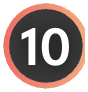
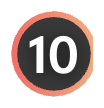
Update drill diagram builder and shot marker asset
Replit-Commit-Author: Agent

diff --git a/client/src/components/drill-diagram-builder.tsx b/client/src/components/drill-diagram-builder.tsx
@@ -1,6 +1,5 @@
 import { useRef, useState } from "react";
 import type { KeyboardEvent, PointerEvent } from "react";
-import { Minus, Plus, RotateCcw, RotateCw, Trash2 } from "lucide-react";
 import courtAsset from "@/assets/drill-diagram/court.png";
 import shotAsset from "@/assets/drill-diagram/shot-marker.png";
 import startAsset from "@/assets/drill-diagram/start-marker.png";
@@ -65,11 +64,13 @@ function DiagramMark({
   element,
   selected,
   onPointerDown,
+  onHandlePointerDown,
   onKeyDown,
 }: {
   element: DrillDiagramElement;
   selected: boolean;
   onPointerDown: (event: PointerEvent<SVGGElement>) => void;
+  onHandlePointerDown: (mode: "resize" | "rotate", event: PointerEvent<SVGCircleElement>) => void;
   onKeyDown: (event: KeyboardEvent<SVGGElement>) => void;
 }) {
   const x = element.x * 3.78;
@@ -86,6 +87,14 @@ function DiagramMark({
   const lengthScale = (element.length ?? 18) / 18;
   const bendScale = 1 + (element.bend ?? 0) / 45;
   const iconScale = element.scale ?? 1;
+  const boxWidth = dimensions.width * iconScale * (element.type === "arrow" ? bendScale : 1);
+  const boxHeight = dimensions.height * iconScale * (element.type === "arrow" ? lengthScale : 1);
+  const corners = [
+    [-boxWidth / 2, -boxHeight / 2],
+    [boxWidth / 2, -boxHeight / 2],
+    [-boxWidth / 2, boxHeight / 2],
+    [boxWidth / 2, boxHeight / 2],
+  ];
   return (
     <g
       transform={`translate(${x} ${y}) rotate(${angle}) scale(${iconScale})`}
@@ -111,13 +120,52 @@ function DiagramMark({
           <text x="0" y="3.8" textAnchor="middle" fontSize="10" fontWeight="800" fill="#fff" className="select-none" pointerEvents="none">{element.shots}</text>
         </>
       )}
+      {selected && (
+        <g transform={element.type === "arrow" ? `scale(${bendScale} ${lengthScale})` : undefined} pointerEvents="none">
+          <rect x={-dimensions.width / 2} y={-dimensions.height / 2} width={dimensions.width} height={dimensions.height} fill="none" stroke="#7c3aed" strokeWidth="1.5" />
+          {corners.map(([cx, cy], index) => (
+            <circle
+              key={index}
+              cx={cx}
+              cy={cy}
+              r="5.5"
+              fill="#fff"
+              stroke="#a1a1aa"
+              strokeWidth="1.5"
+              pointerEvents="all"
+              className="cursor-nwse-resize"
+              onPointerDown={(event) => onHandlePointerDown("resize", event)}
+            />
+          ))}
+          <line x1="0" y1={-boxHeight / 2} x2="0" y2={-boxHeight / 2 - 15} stroke="#a1a1aa" strokeWidth="1.5" />
+          <circle
+            cx="0"
+            cy={-boxHeight / 2 - 19}
+            r="6"
+            fill="#fff"
+            stroke="#a1a1aa"
+            strokeWidth="1.5"
+            pointerEvents="all"
+            className="cursor-grab"
+            onPointerDown={(event) => onHandlePointerDown("rotate", event)}
+          />
+        </g>
+      )}
     </g>
   );
 }
 
 export function DrillDiagramBuilder({ value, onChange }: DrillDiagramBuilderProps) {
   const svgRef = useRef<SVGSVGElement>(null);
-  const dragRef = useRef<{ id: string; pointerId: number } | null>(null);
+  const dragRef = useRef<{
+    id: string;
+    pointerId: number;
+    mode: "move" | "resize" | "rotate";
+    startScale: number;
+    startDistance: number;
+    startAngle: number;
+    startPointerAngle: number;
+  } | null>(null);
   const [selectedId, setSelectedId] = useState<string | null>(null);
   const diagram = value ?? { version: 1 as const, elements: [] };
   const selected = diagram.elements.find((element) => element.id === selectedId) ?? null;
@@ -153,16 +201,36 @@ export function DrillDiagramBuilder({ value, onChange }: DrillDiagramBuilderProp
 
   const eventPosition = (event: PointerEvent<SVGSVGElement>) => {
     const bounds = event.currentTarget.getBoundingClientRect();
+    const x = ((event.clientX - bounds.left) / bounds.width) * 378;
+    const y = ((event.clientY - bounds.top) / bounds.height) * 334;
     return {
-      x: clamp(((event.clientX - bounds.left) / bounds.width) * 100, 0, 100),
-      y: clamp(((event.clientY - bounds.top) / bounds.height) * 100, 0, 100),
+      x: (x / 378) * 100,
+      y: (y / 334) * 100,
+      rawX: x,
+      rawY: y,
     };
   };
 
   const handlePointerMove = (event: PointerEvent<SVGSVGElement>) => {
     if (!dragRef.current || dragRef.current.pointerId !== event.pointerId) return;
     const position = eventPosition(event);
-    updateElement(dragRef.current.id, { x: position.x, y: position.y });
+    const drag = dragRef.current;
+    if (drag.mode === "move") {
+      updateElement(drag.id, { x: position.x, y: position.y });
+      return;
+    }
+    const current = diagram.elements.find((element) => element.id === drag.id);
+    if (!current) return;
+    const centerX = current.x * 3.78;
+    const centerY = current.y * 3.34;
+    const pointerAngle = Math.atan2(position.rawY - centerY, position.rawX - centerX) * 180 / Math.PI;
+    if (drag.mode === "resize") {
+      const distance = Math.hypot(position.rawX - centerX, position.rawY - centerY);
+      updateElement(drag.id, { scale: clamp(drag.startScale * distance / Math.max(drag.startDistance, 1), 0.5, 2) });
+    } else {
+      const difference = ((pointerAngle - drag.startPointerAngle + 540) % 360) - 180;
+      updateElement(drag.id, { angle: (drag.startAngle + difference + 360) % 360 });
+    }
   };
 
   const handlePointerUp = (event: PointerEvent<SVGSVGElement>) => {
@@ -178,7 +246,31 @@ export function DrillDiagramBuilder({ value, onChange }: DrillDiagramBuilderProp
     event.preventDefault();
     event.stopPropagation();
     setSelectedId(id);
-    dragRef.current = { id, pointerId: event.pointerId };
+    dragRef.current = { id, pointerId: event.pointerId, mode: "move", startScale: 1, startDistance: 1, startAngle: 0, startPointerAngle: 0 };
+    svgRef.current?.setPointerCapture(event.pointerId);
+  };
+
+  const handleTransformPointerDown = (id: string, mode: "resize" | "rotate", event: PointerEvent<SVGCircleElement>) => {
+    event.preventDefault();
+    event.stopPropagation();
+    const element = diagram.elements.find((item) => item.id === id);
+    if (!element) return;
+    const bounds = svgRef.current?.getBoundingClientRect();
+    if (!bounds) return;
+    const pointerX = ((event.clientX - bounds.left) / bounds.width) * 378;
+    const pointerY = ((event.clientY - bounds.top) / bounds.height) * 334;
+    const centerX = element.x * 3.78;
+    const centerY = element.y * 3.34;
+    dragRef.current = {
+      id,
+      pointerId: event.pointerId,
+      mode,
+      startScale: element.scale ?? 1,
+      startDistance: Math.hypot(pointerX - centerX, pointerY - centerY),
+      startAngle: element.angle ?? 0,
+      startPointerAngle: Math.atan2(pointerY - centerY, pointerX - centerX) * 180 / Math.PI,
+    };
+    setSelectedId(id);
     svgRef.current?.setPointerCapture(event.pointerId);
   };
 
@@ -253,11 +345,14 @@ export function DrillDiagramBuilder({ value, onChange }: DrillDiagramBuilderProp
 
       <div className="relative flex min-h-0 min-w-0 flex-1 flex-col">
       <div className="min-h-0 min-w-0 flex-1 overflow-auto px-2 py-2 sm:px-4 sm:py-3">
-        <div className="relative mx-auto aspect-[189/167] w-full max-w-[min(92vw,900px)] overflow-visible rounded-lg border border-zinc-700 bg-white">
+        <div
+          className="relative mx-auto aspect-[189/167] max-w-full overflow-visible bg-white"
+          style={{ width: "min(100%, 900px, calc((100dvh - 220px) * 1.1317))" }}
+        >
           <svg
             ref={svgRef}
             viewBox="0 0 378 334"
-            preserveAspectRatio="none"
+            preserveAspectRatio="xMidYMid meet"
             role="group"
             aria-label="Basketball half court. Use the marker controls to add symbols, then drag to reposition."
             className="absolute inset-0 h-full w-full"
@@ -273,6 +368,7 @@ export function DrillDiagramBuilder({ value, onChange }: DrillDiagramBuilderProp
                 element={element}
                 selected={selected?.id === element.id}
                 onPointerDown={(event) => handleMarkerPointerDown(element.id, event)}
+                onHandlePointerDown={(mode, event) => handleTransformPointerDown(element.id, mode, event)}
                 onKeyDown={(event) => handleMarkerKeyDown(element.id, event)}
               />
             ))}
@@ -284,40 +380,29 @@ export function DrillDiagramBuilder({ value, onChange }: DrillDiagramBuilderProp
               </span>
             </div>
           )}
+          {selected?.type === "shot" && (
+            <label
+              className="absolute z-20 flex -translate-x-1/2 items-center rounded-full border border-zinc-300 bg-white px-2 py-1 shadow-md"
+              style={{ left: `${selected.x}%`, top: `${Math.min(selected.y + 9, 91)}%` }}
+            >
+              <span className="sr-only">Shot count</span>
+              <input
+                aria-label="Shot count"
+                type="number"
+                min={1}
+                max={99}
+                value={selected.shots ?? 10}
+                onChange={(event) => updateElement(selected.id, { shots: clamp(Number(event.currentTarget.value) || 1, 1, 99) })}
+                className="w-10 bg-transparent text-center text-xs font-bold text-zinc-900 outline-none"
+              />
+            </label>
+          )}
         </div>
-      </div>
-
-        {selected && (
-          <div className="absolute right-3 top-3 z-10 w-[min(21rem,calc(100%-1.5rem))] rounded-xl border border-orange-500/60 bg-[#101010]/95 p-3 shadow-2xl backdrop-blur-sm sm:right-5 sm:top-5">
-            <div className="mb-3 flex items-center justify-between gap-2">
-              <span className="truncate text-[10px] font-bold uppercase tracking-[.16em] text-orange-300">
-                Edit {selected.type === "start" ? "player start" : selected.type}
-              </span>
-              <button type="button" onClick={removeSelected} aria-label={`Remove ${selected.type} marker`} className="rounded-full p-1.5 text-zinc-400 hover:bg-red-950 hover:text-red-300"><Trash2 className="h-4 w-4" /></button>
-            </div>
-            <div className="flex flex-wrap items-center gap-2">
-              {selected.type === "shot" && (
-                <label className="mr-auto flex items-center gap-2 text-xs text-zinc-300">
-                  Shots
-                  <input aria-label="Shot count" type="number" min={1} max={99} value={selected.shots ?? 10}
-                    onChange={(event) => updateElement(selected.id, { shots: clamp(Number(event.currentTarget.value) || 1, 1, 99) })}
-                    className="h-9 w-16 rounded-lg border border-zinc-700 bg-black px-2 text-center text-sm text-white outline-none focus:border-orange-400" />
-                </label>
-              )}
-              <span className="text-[10px] uppercase tracking-wider text-zinc-500">Size</span>
-              <button type="button" aria-label="Shrink marker" onClick={() => updateElement(selected.id, { scale: clamp((selected.scale ?? 1) - 0.1, 0.5, 2) })} className="rounded-lg border border-zinc-700 p-2 text-zinc-200 hover:border-orange-400"><Minus className="h-4 w-4" /></button>
-              <button type="button" aria-label="Enlarge marker" onClick={() => updateElement(selected.id, { scale: clamp((selected.scale ?? 1) + 0.1, 0.5, 2) })} className="rounded-lg border border-zinc-700 p-2 text-zinc-200 hover:border-orange-400"><Plus className="h-4 w-4" /></button>
-              <span className="ml-1 text-[10px] uppercase tracking-wider text-zinc-500">Rotate</span>
-              <button type="button" aria-label="Rotate marker counterclockwise" onClick={() => updateElement(selected.id, { angle: ((selected.angle ?? 0) - 15 + 360) % 360 })} className="rounded-lg border border-zinc-700 p-2 text-zinc-200 hover:border-orange-400"><RotateCcw className="h-4 w-4" /></button>
-              <button type="button" aria-label="Rotate marker clockwise" onClick={() => updateElement(selected.id, { angle: ((selected.angle ?? 0) + 15) % 360 })} className="rounded-lg border border-zinc-700 p-2 text-zinc-200 hover:border-orange-400"><RotateCw className="h-4 w-4" /></button>
-            </div>
-          </div>
-        )}
       </div>
 
       <div className="min-h-[44px] border-t border-zinc-800 px-3 py-2 sm:px-4">
         {selected ? (
-          <p className="text-center text-[10px] text-zinc-500">Use the on-court controls to resize, rotate, or edit shots.</p>
+          <p className="text-center text-[10px] text-zinc-500">Drag a corner to resize, the top handle to rotate, or the mark to move.</p>
         ) : (
           <p className="flex min-h-6 items-center justify-center gap-1.5 text-center text-[10px] text-zinc-500">
             {diagram.elements.length === 0
